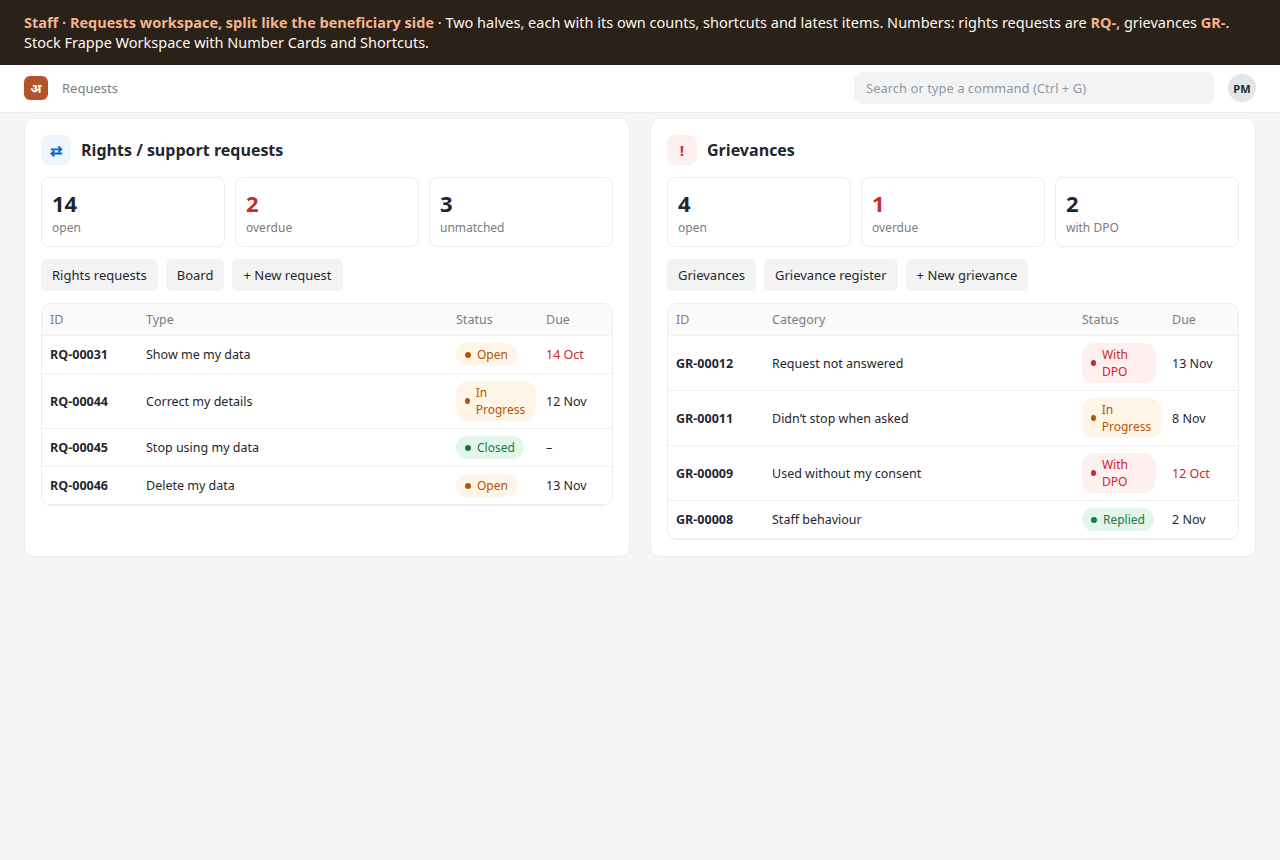
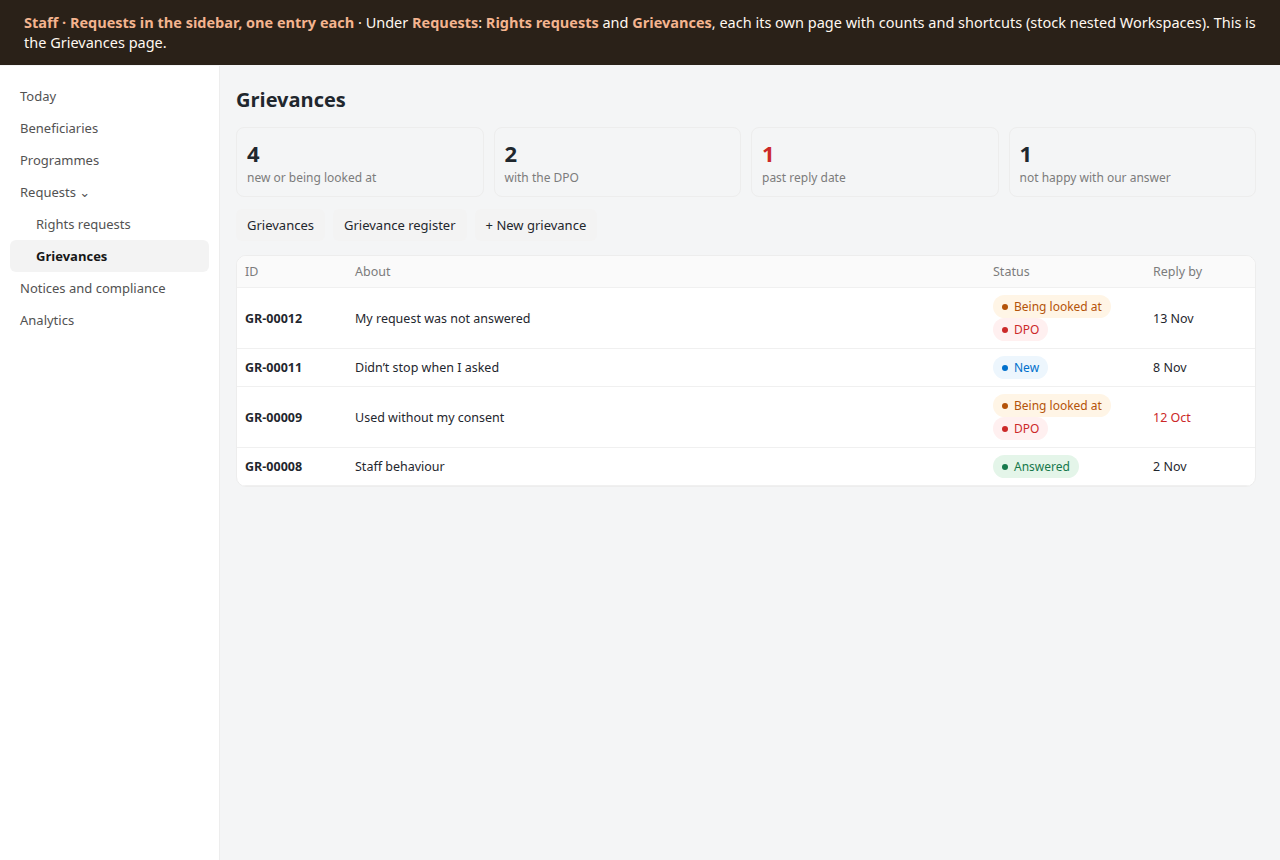
Design: plain statuses, conversation on the web, sidebar entries, Helpdesk note
Claude-Session: https://claude.ai/code/session_019TCFjXTZe15Bd8jrQ1rU3g

diff --git a/docs/design/rights-and-grievances.md b/docs/design/rights-and-grievances.md
@@ -10,138 +10,170 @@ Two separate things, for the person and for staff:
 | Law (our reading; confirm with counsel) | DPDP Act s.6(4) withdrawal, s.11 access, s.12 correction and erasure, s.14 nomination | DPDP Act s.8(10) and s.13: a way to complain, answered within the published period; the Board only after this |
 | DocType | **Rights Request** (exists; narrowed) | **Grievance** (new) |
 | Numbers | `RQ-00031` | `GR-00012` |
-| Reply time | 30 days (Anumati Settings) | 30 days, DPO at day 15 (Anumati Settings) |
-| After the reply | Closed | Person can say **Not satisfied** once; then the Board route |
+| Reply by | 30 days | 30 days; the DPO takes over at day 15 |
+| After the answer | Closed | The person says whether it solved it; if not, back to the DPO once, then the Board route |
 
-Screens: self-service [sign in](img/p1-sign-in.png), [choices](img/p2-choices.png), [leave and history](img/p3-leave-history.png), [rights and grievance forms](img/g1-ask.png), [tracking](img/g2-track.png); staff [workspace](img/s0-workspace.png), [rights list](img/s1-rights.png), [grievance list](img/s1-grievances.png), [grievance form](img/s2-grievance.png), [register](img/s3-register.png).
+Screens: self-service [sign in](img/p1-sign-in.png), [choices](img/p2-choices.png), [leave and history](img/p3-leave-history.png), [rights and grievance forms](img/g1-ask.png), [conversation and answer](img/g2-track.png); staff [Grievances page](img/s0-workspace.png), [rights list](img/s1-rights.png), [grievance list](img/s1-grievances.png), [grievance form](img/s2-grievance.png), [register](img/s3-register.png).
+
+---
+
+## 0. Plain words
+
+The same words for the person and for staff. No "upheld", "escalated", "SLA" or "unmatched" on any screen.
+
+**Status** (both DocTypes)
+
+| Stored value | Shown as | Hindi | Meaning |
+| --- | --- | --- | --- |
+| `new` | New | नया | Just arrived |
+| `who_is_this` | Who is this? *(staff only)* | यह कौन है? | Came from a phone shared by several people, or a code we can't find |
+| `looking` | Being looked at | देखा जा रहा है | Someone is working on it |
+| `waiting_partners` | Waiting for partners *(rights only)* | साझेदारों का इंतज़ार | Partners must confirm (e.g. deletion) |
+| `answered` | Answered | जवाब दिया | We replied |
+| `closed` | Closed | बंद | Done |
+| `cannot_do` | Can't do this *(rights only)* | नहीं हो सकता | Refused, with the reason in the answer (e.g. the law requires us to keep it) |
+
+**Flags shown next to the status** (not statuses): **DPO** (the DPO has it), **Not happy** (the person said the answer didn't solve it), **Late** (past the reply-by date).
+
+**What did we find?** (grievance, chosen by staff when answering; the person sees the sentence)
+
+| Stored value | Staff sees | Person sees |
+| --- | --- | --- |
+| `fixed` | We fixed it | We fixed it. |
+| `partly_fixed` | We fixed part of it | We fixed part of it. |
+| `nothing_wrong` | Nothing was wrong | We checked and found nothing wrong. |
+
+**The person's answer:** "Yes, this solves it" / "No, I'm not happy with this".
 
 ---
 
 ## 1. Rights Request (existing DocType, changed)
 
-**Change:** `grievance` leaves the Type list; grievances move to their own DocType. Adds a reply the person can read.
+**Changes:** `grievance` leaves the Type list (grievances get their own DocType); statuses become the plain words above; the person and staff talk in one conversation.
 
 ### Fields
 
 | # | Label | Fieldname | Type | Options / notes | Screen |
 | --- | --- | --- | --- | --- | --- |
 | | **Tab: Request** | | | | |
-| 1 | What they asked | `request_type` | Select | `withdrawal` Stop using my data · `access` Show me my data · `correction` Correct my details · `erasure` Delete my data · `nomination` Name someone to act for me. Required. In list, standard filter. **Default removed** (was grievance) | g1-ask b; s1-rights |
-| 2 | Came in by | `channel` | Select | as today (field worker, slip, SMS, missed call, …, `web` = Self-service page) | s1-rights |
-| 3 | Status | `status` | Select | Open · Unmatched · In Progress · Awaiting Acknowledgement · Closed · Rejected (unchanged) | s1-rights; g1-ask a |
-| 4 | Received on | `received_on` | Datetime | unchanged; the clock starts here | |
-| 5 | Due by | `sla_due` | Date | unchanged | g1-ask a; s1-rights |
+| 1 | What they asked | `request_type` | Select | `withdrawal` Stop using my data · `access` Show me my data · `correction` Correct my details · `erasure` Delete my data · `nomination` Name someone to act for me. Required; no default | g1-ask b; s1-rights |
+| 2 | Came in by | `channel` | Select | as today; `web` shows as "Self-service page" | s1-rights |
+| 3 | Status | `status` | Select | new · who_is_this · looking · waiting_partners · answered · closed · cannot_do (patch maps the old values) | s1-rights; g1-ask a |
+| 4 | Received | `received_on` | Datetime | unchanged; the clock starts here | |
+| 5 | Reply by | `sla_due` | Date | unchanged (label only) | g1-ask a; s1-rights |
 | 6 | Subject | `subject` | Data | unchanged (auto) | |
 | | Column | | | | |
 | 7 | Beneficiary | `matched_principal` | Link Data Principal | unchanged | s1-rights |
-| 8–11 | Match confidence, Possible matches, Assigned to, Paper-trail number | unchanged | | | |
-| 12 | Resulting consent event | `linked_event` | Link | unchanged (withdrawals) | |
-| | **Section: Reply** *(new)* | | | | |
-| 13 | Reply to the person | `reply` | Small Text | Shown on their self-service page; sent by SMS when an approved `rights_update` template exists | g1-ask a (status line) |
-| 14 | Replied on | `replied_on` | Datetime | read-only, set when the reply is sent | |
-| | Sender section, Details tab | unchanged (sender hash, email, raw payload, resolution, evidence) | | | |
+| 8 | Raised by | `raised_by_role` | Select | *new*: `self` · `guardian` · `nominee` · `field_worker` · `staff`. A guardian can act for a child | |
+| 9–12 | Match confidence, Possible matches, Assigned to, Paper-trail number | unchanged | | | |
+| 13 | Resulting consent event | `linked_event` | Link | unchanged (withdrawals) | |
+| | **Section: Answer** *(new)* | | | | |
+| 14 | Answer to the person | `answer` | Small Text | Shown on their page; the SMS only says there is an answer | g1-ask a |
+| 15 | Answered on | `answered_on` | Datetime | read-only | |
+| | Conversation | Frappe **Communication** | | Messages from their page and our replies, on the form timeline (stock) | |
+| | Sender section, Details tab | unchanged | | | |
 
-**Naming:** `RQ-{#####}` (unchanged).
-**List columns:** ID · What they asked · Beneficiary · Came in by · Status · Due by. **Filters:** What they asked, Status, Beneficiary.
-**Permissions:** unchanged (Admin and DPO full; Operator edit; Programme Manager read; Field Worker create through the API).
-**Board:** the existing Kanban board stays, now rights requests only.
+**Naming:** `RQ-{#####}`. **List columns:** ID · What they asked · Beneficiary · Came in by · Status · Reply by. **Filters:** What they asked, Status, Beneficiary. **Permissions:** unchanged. **Board:** the existing Kanban board, rights requests only.
 
 ---
 
 ## 2. Grievance (new DocType)
 
-**Type:** regular, not submittable (status moves on as staff work it, like Rights Request). **Module:** Anumati. **Track changes:** on. **Delete:** nobody except System Manager (a complaint record is kept).
-**Naming:** `GR-{#####}`. **Title field:** `subject`. **Sort:** creation, newest first.
+**Type:** regular, not submittable. **Module:** Anumati. **Track changes:** on. **Delete:** nobody except System Manager. **Naming:** `GR-{#####}`. **Title field:** `subject`. **Sort:** newest first.
 
 ### Fields
 
 | # | Label | Fieldname | Type | Options / notes | Screen |
 | --- | --- | --- | --- | --- | --- |
 | | **Tab: Grievance** | | | | |
-| 1 | What is it about? | `category` | Select | `used_without_consent` Used without my consent · `did_not_stop` Didn't stop when I asked · `wrong_details` Wrong details · `shared_or_leaked` My data was shared or leaked · `staff_behaviour` Staff behaviour · `request_not_answered` My request was not answered · `other` Something else. Required. In list, standard filter | g1-ask c; s1-grievances; s2 |
-| 2 | About request | `about_request` | Link Rights Request | Shown and required when category = request_not_answered; optional otherwise | g1-ask c; s2 ("Open RQ-00031") |
-| 3 | Subject | `subject` | Data | Auto: category label + " · " + channel, unless typed | s2 title |
-| 4 | In their words | `description` | Small Text | Hindi or English; required from the self-service page | g1-ask c |
-| 5 | Photo or document | `evidence` | Attach | Private file; optional | g1-ask c |
-| 6 | Came in by | `channel` | Select | same list as Rights Request (`web` = Self-service page) | s2 |
+| 1 | What is it about? | `category` | Select | `used_without_consent` Used without my consent · `did_not_stop` Didn't stop when I asked · `wrong_details` Wrong details · `shared_or_leaked` My data was shared or leaked · `staff_behaviour` Staff behaviour · `request_not_answered` My request was not answered · `other` Something else. Required | g1-ask c; s1-grievances; s2 |
+| 2 | Which request? | `about_request` | Link Rights Request | Required when "My request was not answered"; optional otherwise | g1-ask c; s2 |
+| 3 | Subject | `subject` | Data | Auto from the category, unless typed | s2 title |
+| 4 | In their words | `description` | Small Text | Hindi or English | g1-ask c |
+| 5 | Photo or document | `evidence` | Attach | Optional; stored encrypted like consent evidence | g1-ask c |
+| 6 | Came in by | `channel` | Select | same list as Rights Request | s2 |
 | | Column | | | | |
-| 7 | Beneficiary | `matched_principal` | Link Data Principal | Same matching as Rights Request (by phone hash; **Who is this for?** when the number is shared) | s1-grievances; s2 |
-| 8 | Status | `status` | Select | Open · Unmatched · In Progress · **With DPO** · **Replied** · **Reopened** · Closed. In list, standard filter | g1-ask a; g2-track; s1-grievances |
-| 9 | Assigned to | `assigned_to` | Link User | Operator at first; the DPO after escalation | s1-grievances; s2 |
-| 10 | Received on | `received_on` | Datetime | Default now; the clock starts here | s2 |
-| 11 | Due by | `sla_due` | Date | received_on + `grievance_sla_days` (30) | g2-track; s1-grievances; s2 |
-| 12 | Passed to the DPO on | `escalated_on` | Datetime | read-only; set by the daily check or by Not satisfied | g2-track b; s2 |
-| | **Section: Outcome and reply** | | | | |
-| 13 | Outcome | `outcome` | Select | `resolved` Resolved · `partly_resolved` Partly resolved · `not_upheld` Not upheld. Required to send a reply | s2 |
-| 14 | What we did (internal) | `internal_note` | Small Text | Never shown to the person | s2 |
-| 15 | Reply to the person | `reply` | Small Text | Required to send; shown on their page and sent by SMS | g2-track c; s2 |
-| 16 | Replied on | `replied_on` | Datetime | read-only | g2-track c |
-| 17 | Their answer | `person_response` | Select | `satisfied` · `not_satisfied`; read-only (set from their page or by staff for a field visit) | g2-track c |
-| 18 | Answered on | `responded_on` | Datetime | read-only | |
+| 7 | Beneficiary | `matched_principal` | Link Data Principal | Same matching as Rights Request ("Who is this?" for shared phones) | s1-grievances; s2 |
+| 8 | Raised by | `raised_by_role` | Select | as Rights Request | |
+| 9 | Status | `status` | Select | new · who_is_this · looking · answered · closed | all |
+| 10 | Assigned to | `assigned_to` | Link User | Operator first; the DPO from day 15 | s1-grievances; s2 |
+| 11 | Received · Reply by | `received_on`, `sla_due` | Datetime, Date | reply by = received + 30 days | s2 |
+| 12 | With the DPO since | `dpo_since` | Datetime | read-only; shows the **DPO** flag | s0; s2 |
+| | **Section: Answer** | | | | |
+| 13 | What did we find? | `finding` | Select | fixed · partly_fixed · nothing_wrong. Required to answer | s2 |
+| 14 | What we did (internal) | `internal_note` | Small Text | never shown to the person | s2 |
+| 15 | Did it solve it? | `person_says` | Select | `solved` · `not_happy`; read-only (from their page, or staff after a visit). `not_happy` shows the **Not happy** flag | g2-track c |
+| 16 | Said on | `person_said_on` | Datetime | read-only | |
+| | Conversation | Frappe **Communication** | | Their messages from the page and our replies; the person sees the same thread | g2-track b, c; s2 |
 | | **Tab: Details** | | | | |
-| 19 | Possible matches | `candidates` | Small Text | read-only, IDs only (as Rights Request) | |
-| 20 | Sender phone hash | `sender_hash` | Data | read-only, indexed; the number is never stored | |
-| 21 | Sender email | `raised_by` | Data (Email) | for emails to the DPO | |
-| 22 | Paper-trail number | `paper_trail_number` | Data | | |
-| 23 | As received | `raw_payload` | Long Text | the SMS or email text | |
+| 17–21 | Possible matches, Sender phone hash, Sender email, Paper-trail number, As received | as Rights Request | | the number itself is never stored | |
 | | **Tab: Beneficiary's consents** | | | | |
-| 24 | Consents | `consents_html` | HTML | Filled by the form script: the person's uses, on/off, with receipt codes; no phone numbers | s2 tab |
+| 22 | Consents | `consents_html` | HTML | the person's uses, on/off, with receipt codes | s2 |
 
-### Status flow
+### How it moves
 
 ```mermaid
 flowchart LR
-  O[Open] --> P[In Progress]
-  U[Unmatched] -->|Who is this for?| O
-  O & P -->|day 15, not replied| D[With DPO]
-  O & P & D -->|Send reply| R[Replied]
-  R -->|I'm satisfied, or 30 days with no answer| C[Closed]
-  R -->|Not satisfied, once| X[Reopened · with DPO]
-  X -->|Send reply| R2[Replied, final] --> C
+  W[Who is this?] -->|staff pick the person| N[New]
+  N --> L[Being looked at]
+  L -.->|day 15, no answer| L2[Being looked at · DPO]
+  L & L2 -->|Reply to the person + What did we find?| A[Answered]
+  A -->|Yes, this solves it · or 30 days with no reply| C[Closed]
+  A -->|No, I'm not happy · once, within 30 days| L3[Being looked at · DPO · Not happy]
+  L3 -->|second answer| A2[Answered, final] --> C
 ```
 
-No Frappe Workflow: the moves are buttons on the form (Send reply) and the daily check, like the Rights Request inbox today. After a second reply, **Not satisfied** is not offered again; the page shows the Board route.
+No Frappe Workflow; the moves come from **Reply to the person**, the person's buttons and a daily check. After the second answer the page shows the Board route instead of "No, I'm not happy".
+
+### Conversation (both DocTypes)
+
+- **Person → us:** "Write to us" on their page adds a message (a received Communication, linked to the request, no phone number).
+- **Us → person:** **Reply to the person** (a dialog: message, and for grievances "What did we find?" when it's the answer) adds a sent Communication and, if it's the answer, sets Answered.
+- **SMS:** a short "there is a reply, see it at the link or ask a field worker" (DLT variables are short, so the reply text itself is never sent by SMS).
+- **Desk:** the thread shows on the form timeline (stock), so nothing new to learn.
 
 ### Form buttons (Desk)
 
-- **Send reply** (Operator, DPO): needs Outcome and Reply; sets Replied, replied_on; logs the SMS (Communication linked to the grievance, number never stored).
-- **Open RQ-xxxxx** when `about_request` is set.
-- **Move to rights requests** / on Rights Request **Move to grievances**: for something filed under the wrong door (creates the other record, closes this one with a link). Mainly for emails and SMS text.
+**Reply to the person** · **Open RQ-xxxxx** (when linked) · **Move to rights requests** (and **Move to grievances** on a rights request) for anything that came in through the wrong door.
 
-### List and workspace
+### Desk navigation
 
-- **List columns:** ID · Category · About · Assigned to · Status · Due by. **Filters:** Category, Status, Assigned to. **Indicators:** Open/Reopened orange, With DPO red, Replied green, Closed grey; overdue rows red, as for requests.
-- **Requests workspace** (Frappe v15 Workspace) split in two halves, each with Number Cards (open, overdue, unmatched / with DPO) and Shortcuts (list, board or register, + New). The Today "Needs attention" block counts both.
+Under **Requests** in the sidebar, two entries, each its own page (stock nested Workspaces):
+
+- **Rights requests:** counts (new or being looked at, waiting for partners, late, who is this?), shortcuts (list, board, + New).
+- **Grievances:** counts (new or being looked at, with the DPO, late, not happy), shortcuts (list, register, + New).
+
+**Today → Needs attention** counts both.
 
 ### Permissions
 
-| Role | Read | Write | Create | Delete | Report | Notes |
-| --- | --- | --- | --- | --- | --- | --- |
-| Anumati DPO | ✓ | ✓ | ✓ | | ✓ | Owns escalations |
-| Anumati Operator | ✓ | ✓ | ✓ | | ✓ | Works the list |
-| Anumati Admin | ✓ | | | | ✓ | Read only |
-| Anumati Programme Manager | ✓ | | | | ✓ | Read only |
-| Anumati Field Worker | | | ✓ (API) | | | Raises from the app |
-| System Manager | ✓ | ✓ | ✓ | ✓ | ✓ | |
+| Role | Read | Write | Create | Report | Notes |
+| --- | --- | --- | --- | --- | --- |
+| Anumati DPO | ✓ | ✓ | ✓ | ✓ | Gets every grievance from day 15 |
+| Anumati Operator | ✓ | ✓ | ✓ | ✓ | Except **Staff behaviour** grievances (DPO only), so a colleague never handles a complaint about themselves |
+| Anumati Admin | ✓ | | | ✓ | Read only, except Staff behaviour |
+| Anumati Programme Manager | | | | ✓ | Register totals only |
+| Anumati Field Worker | | | ✓ (API) | | Raises from the app; can't read back |
+| System Manager | ✓ | ✓ | ✓ | ✓ | Only role that can delete |
 
-### Automation (stock where possible)
+### Automation
 
 | What | How |
 | --- | --- |
-| Due date, matching, subject | Controller `validate` (same helpers as Rights Request) |
-| DPO at day 15 | Daily scheduler job: grievances Open/In Progress older than `grievance_escalate_after_days` (15) → status With DPO, assign the DPO (stock Assign To), Desk notification |
-| Overdue alert | Stock **Notification**: "Days After" Due by, to the DPO |
-| New grievance alert | Stock **Notification**: "New", to Operator and DPO |
-| Auto-close | Daily job: Replied with no answer for 30 days → Closed |
-| Grievance register | Script Report: counts by category, replied, median days to reply, escalated, overdue, not satisfied; date filter |
+| Reply by, matching, subject | controller `validate` (same helpers as Rights Request) |
+| DPO at day 15 | daily job: not answered after 15 days → assign the DPO (stock Assign To), Desk notification |
+| Late | stock **Notification** "Days After" Reply by, to the DPO |
+| New grievance | stock **Notification** "New", to Operator and DPO (Staff behaviour: DPO only) |
+| Auto-close | daily job: Answered, no reply for 30 days → Closed, with an SMS saying so |
+| Register | Script Report: received, answered, typical days to answer, with the DPO, late, not happy, by category |
 
-### SMS (Message Template events; need DLT approval, logged and shown on the page until then)
+### SMS (Message Templates; DLT approval needed; until then shown on the page only)
 
 | Event | Text (English; Hindi too) |
 | --- | --- |
 | `grievance_received` | `{{ org }}: we got your grievance {{ code }}. We will reply by {{ date }}.` |
-| `grievance_reply` | `{{ org }}: reply to {{ code }}: {{ reply }}. Not satisfied? Use the link on your receipt or tell a field worker.` |
-| `rights_update` (exists) | Rights request received / replied |
+| `request_reply` | `{{ org }}: there is a reply to {{ code }}. See it at {{ link }} or ask a field worker.` |
+| `rights_update` (exists) | Rights request received |
 
 ---
 
@@ -149,27 +181,45 @@ No Frappe Workflow: the moves are buttons on the form (Send reply) and the daily
 
 | From | Rights / support request | Grievance |
 | --- | --- | --- |
-| Self-service page | **Rights / support request** form (Stop → My choices) | **Grievance** form |
-| Field app | "Stop a use or leave" and the request list (see, correct, delete, nominate) | New **Grievance** button: category + their words (companion PR in `anumati_collect`) |
-| SMS | `STOP…` withdrawal, `DATA` access | `HELP` and any other text, category Something else |
+| Self-service page | Rights / support request form (Stop → My choices) | Grievance form |
+| Field app | Stop a use or leave; request list (see, correct, delete, nominate) | New **Grievance** button (companion PR in `anumati_collect`) |
+| SMS | `STOP…`, `DATA` | `HELP` and any other text → Something else |
 | Missed call | Withdrawal (unchanged) | |
-| Email to the DPO | Arrives as a Rights Request (unchanged); **Move to grievances** if it's a complaint | |
-| API | `rights.submit` (unchanged, types without grievance) | New `grievance.submit` (in OpenAPI) |
+| Email to the DPO | **Grievance** by default (people write to the DPO to complain); **Move to rights requests** if it's a request | |
+| API | `rights.submit` (no grievance type) | new `grievance.submit` (in OpenAPI) |
 
-**Existing data:** a patch moves every Rights Request of type grievance to a new Grievance (same dates, beneficiary, text and messages), leaving a note on the old number.
+**Existing data:** a patch moves rights requests of type grievance to Grievance and maps old statuses (Open → new, Unmatched → who_is_this, In Progress → looking, Awaiting Acknowledgement → waiting_partners, Closed → closed, Rejected → cannot_do).
 
 ## 4. Settings (Anumati Settings)
 
-`grievance_sla_days` (30) · `grievance_escalate_after_days` (15) · existing `rights_sla_days` (30).
+`rights_sla_days` (30, exists) · `grievance_sla_days` (30) · `grievance_dpo_after_days` (15).
 
-## 5. Build order
+## 5. Retention
 
-1. **PR 1, self-service page:** sign-in, My choices, History, Requests tab with **Rights / support request**; Rights Request reply fields.
-2. **PR 2, grievance:** Grievance DocType, patch, SMS routing, escalation, notifications, register, workspace split, self-service grievance form and tracking, API; companion field-app PR.
+Grievances and rights requests are kept after an erasure request (they are the record that we handled it), with the text kept as received. The retention period for them follows the Retention Policy (Phase 2 purge); until then, kept.
 
-## 6. Open questions
+## 6. Frappe Helpdesk: considered, not used
 
-1. Reply time 30 days and DPO at day 15: confirm.
-2. Grievances visible to Admin and Programme Manager (read only)? A staff-behaviour complaint may be about a colleague; alternative: DPO and Operator only.
-3. Emails to the DPO: keep landing as rights requests (with Move), or land as grievances by default?
-4. Category list: final?
+| | Frappe Helpdesk | This design |
+| --- | --- | --- |
+| Ready-made | Tickets, SLA with escalation, agent screens, canned replies, email | Built from stock Frappe pieces |
+| Who the customer is | A Contact / Website User, signed in with **email**; name and phone stored in plain text | A beneficiary signed in with an **SMS code**; name and phone stay encrypted, looked up by salted hash |
+| Channels | Email and web (WhatsApp/SMS need add-ons) | SMS STOP/DATA/HELP, missed call, field app, slip, web, email |
+| Ties to consent | None; would be custom fields | Links to the person, their consents and receipts; withdrawals write signed Consent Events |
+| Staff screens | A separate agent app (Vue), new to learn | The same Desk the team already uses |
+| Hindi | Partly translated | Our Hindi labels |
+| Cost to adopt | Another app to install, upgrade and secure on Frappe Cloud; data split across two apps | None |
+
+Helpdesk would bring good ticket handling, but it would store beneficiary names and numbers unencrypted, can't sign people in by SMS, and knows nothing about consent. We copy its good ideas (reply-by clock, escalation, canned replies later) inside Anumati. Revisit if an NGO already runs Helpdesk for its own support desk: then a one-way link (Anumati grievance → Helpdesk ticket) could be added.
+
+## 7. Build order
+
+1. **PR 1, self-service page:** sign-in, My choices, History, Requests tab with Rights / support request; Rights Request plain statuses, Raised by, answer and conversation.
+2. **PR 2, grievance:** Grievance DocType, patch, SMS routing, DPO at day 15, notifications, register, sidebar entries, self-service grievance form and conversation, API; companion field-app PR.
+
+## 8. Open questions
+
+1. Reply by 30 days, DPO at day 15: confirm.
+2. Staff behaviour grievances for the DPO only: agree?
+3. Emails to the DPO land as grievances by default: agree?
+4. Category list final?
